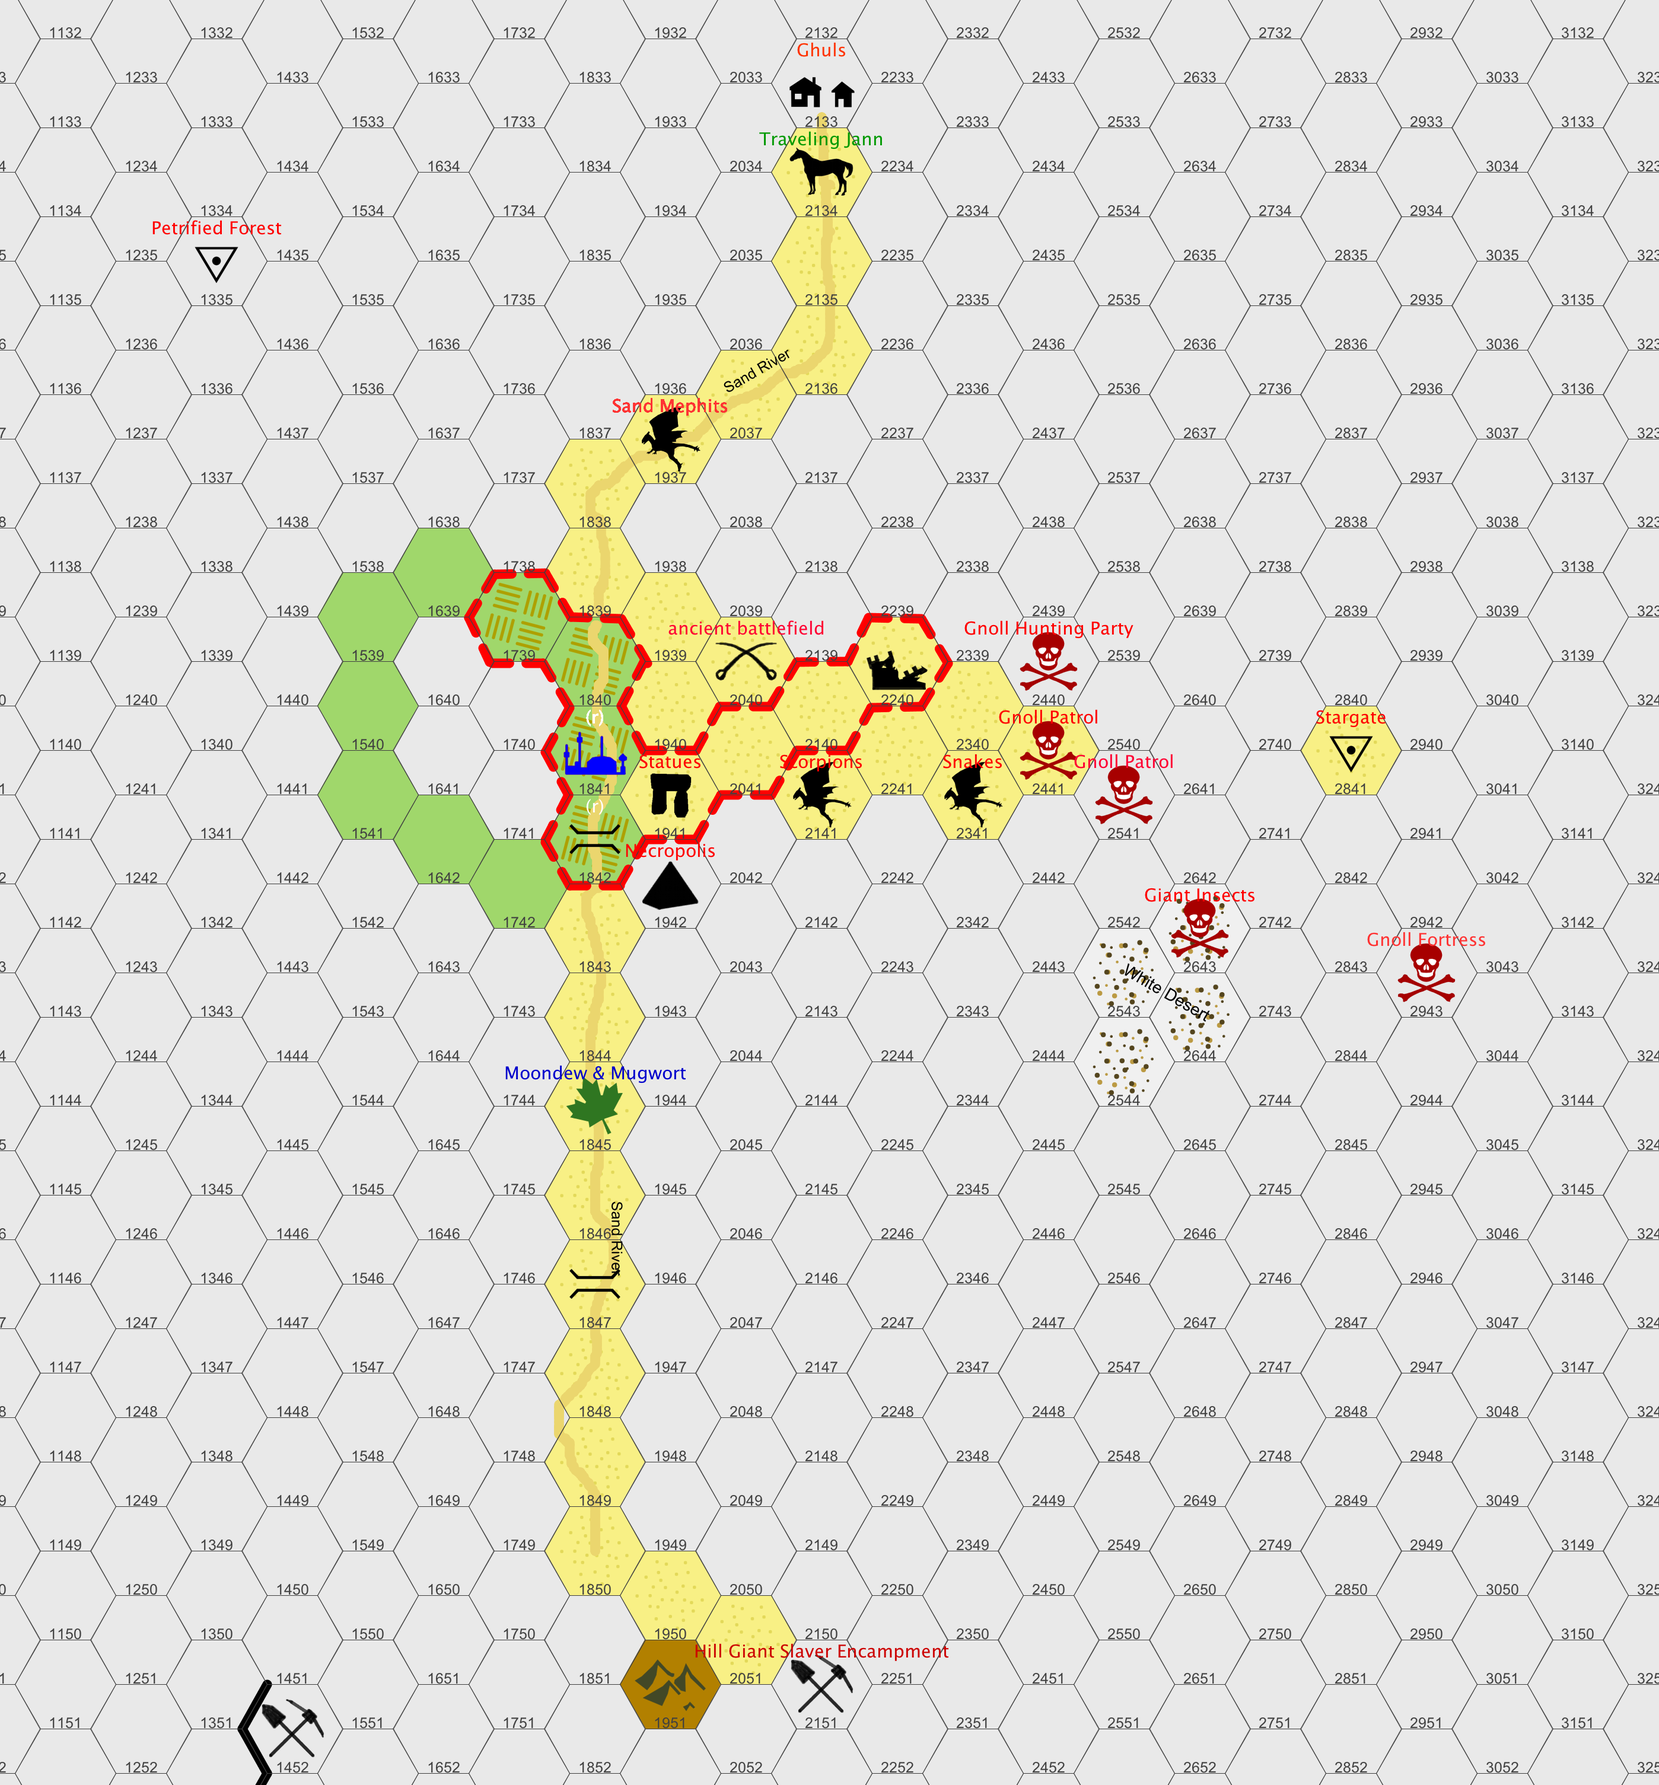
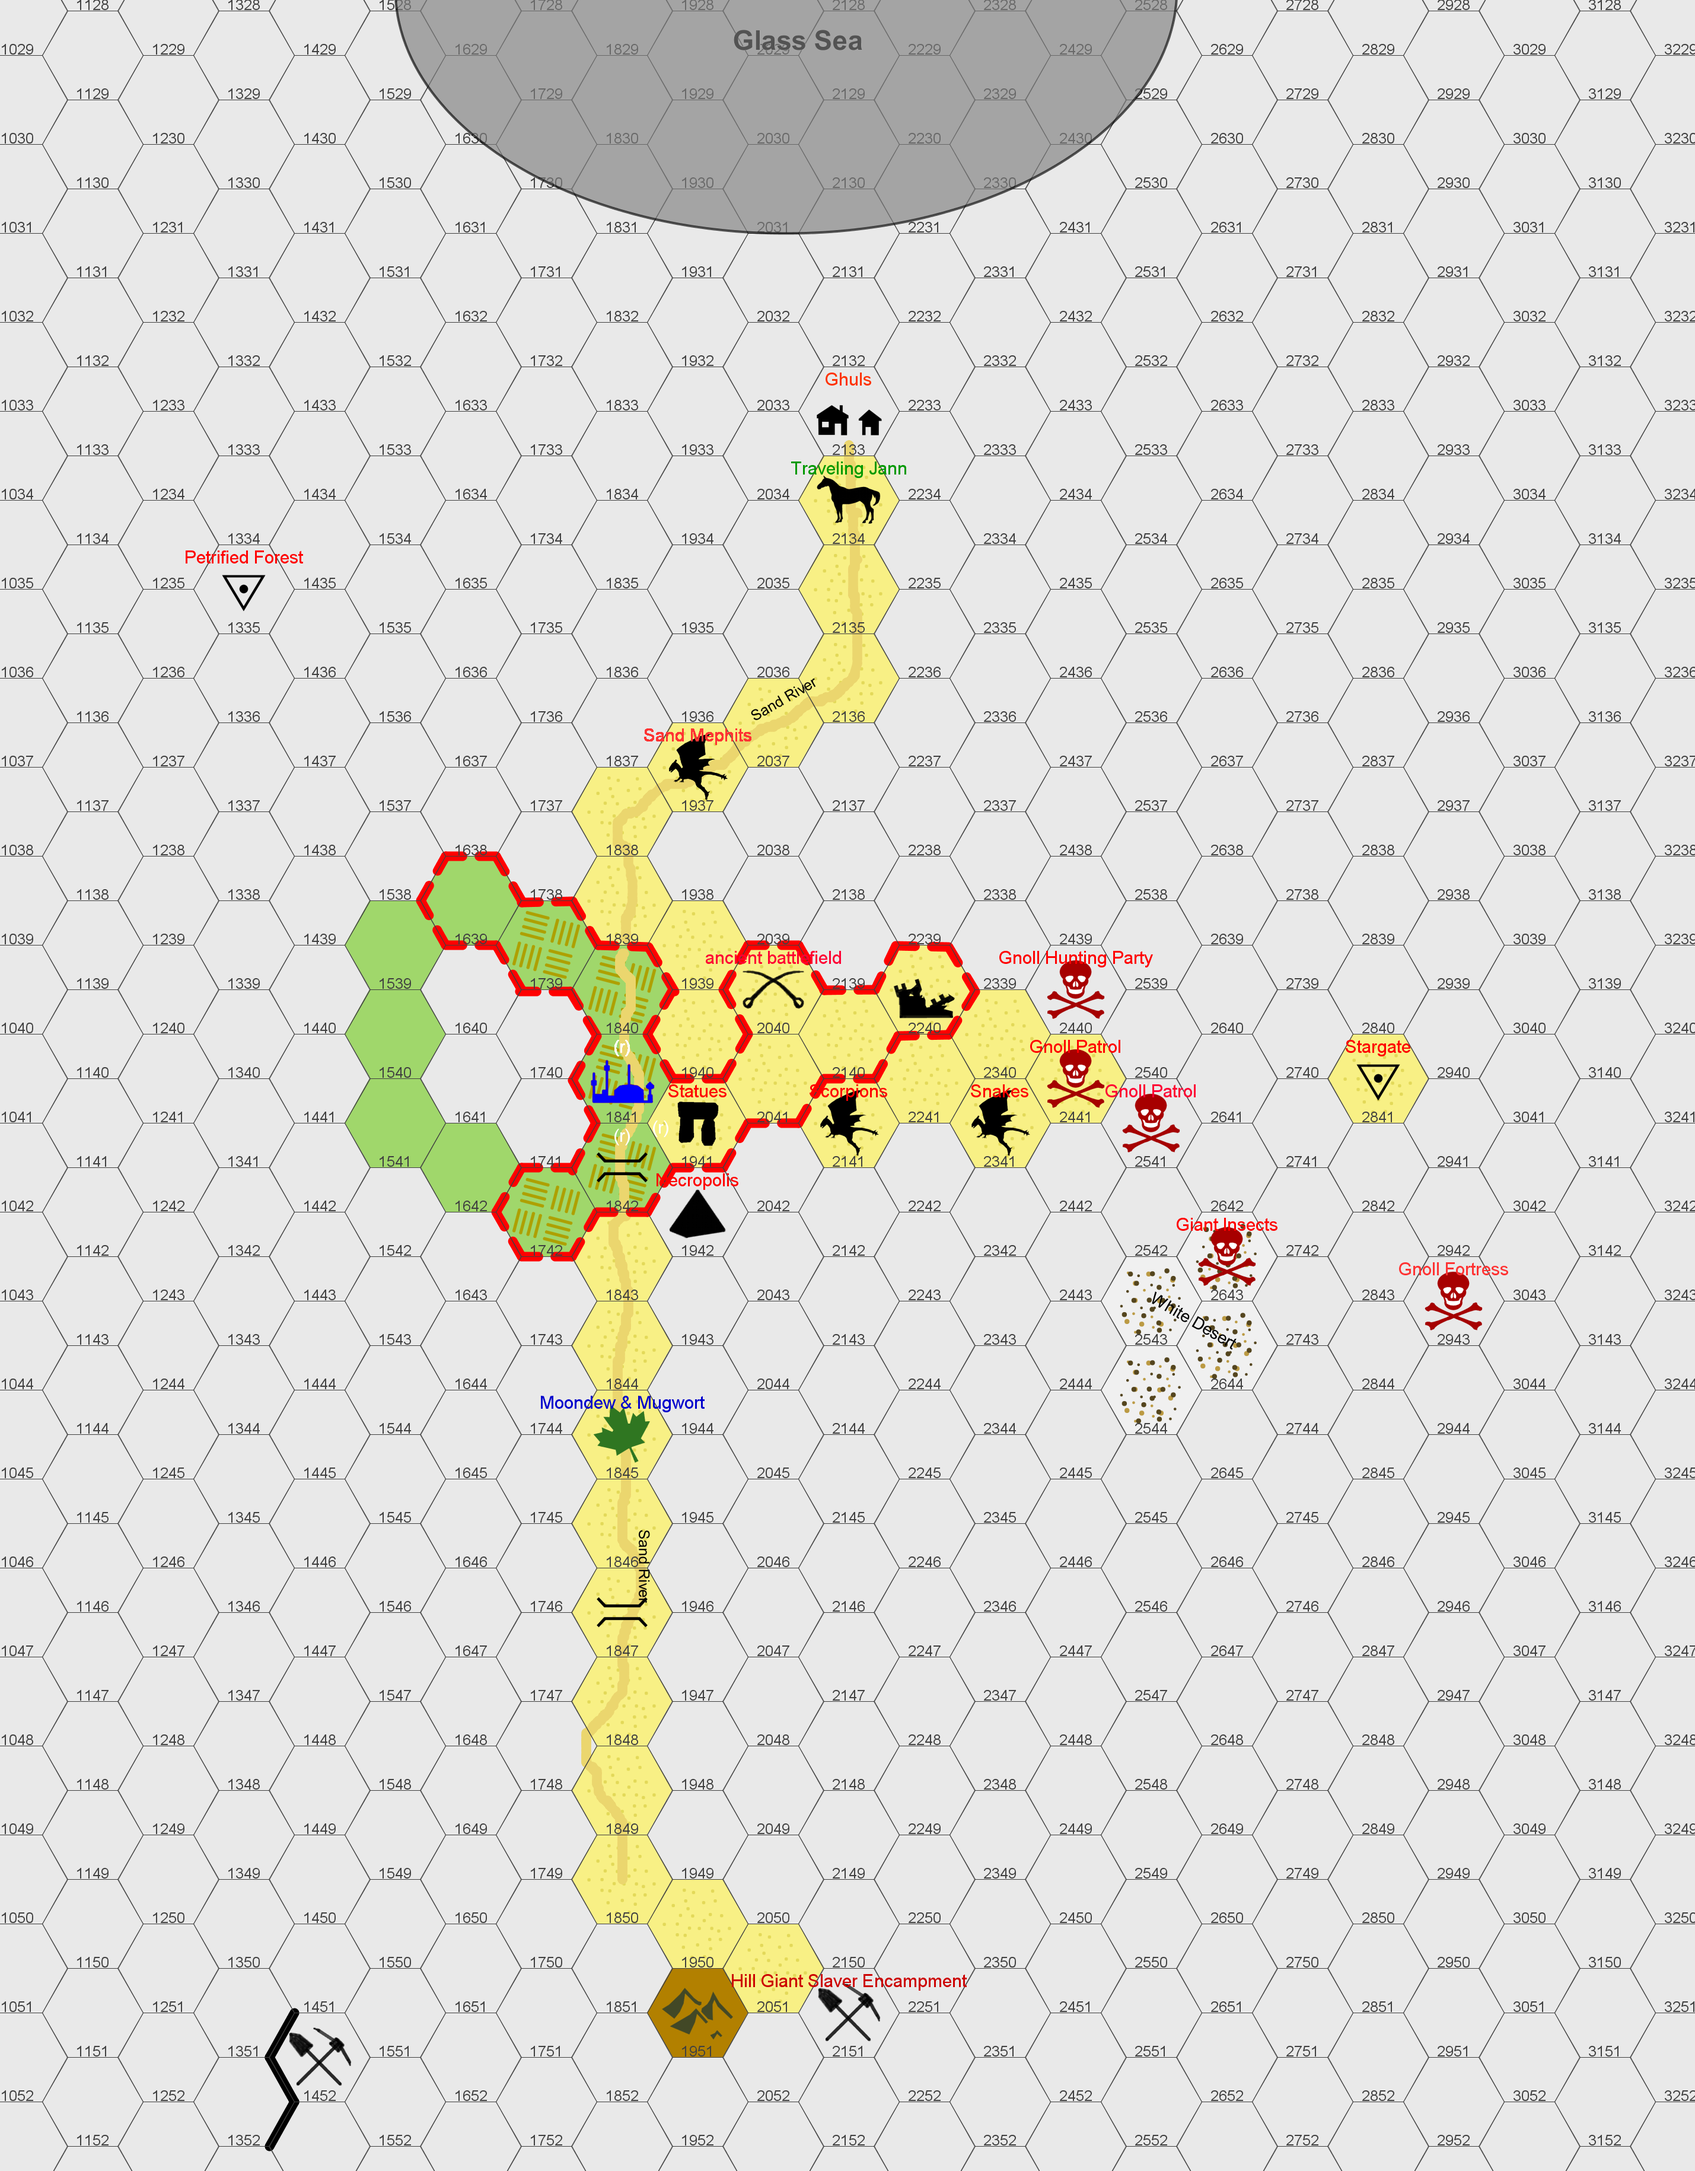
Turn 4 Summary & Claims

diff --git a/README.md b/README.md
@@ -1,3 +1,18 @@
+__**KIngdom Turn 4 Summary**__\
+_Claimed Hexes:_\
+1742, 2040, 1639\
+_Hex Improvements:_\
+1742: farm\
+1941: road\
+_Settlement Improvements:_\
+Capital: Housing, Temple (3/4), legendary smithy\
+_Event_
+Inquisition: +1 Infamy, +1 Law, -2 Lore, -2 Loyalty, -2 productivity, -2 Stability\
+_Current Treasury:_\
+35 BP\
+\
+\
+\
 __**KIngdom Turn 3 Summary**__\
 _Claimed Hexes:_\
 1739, 2140, 2240\
